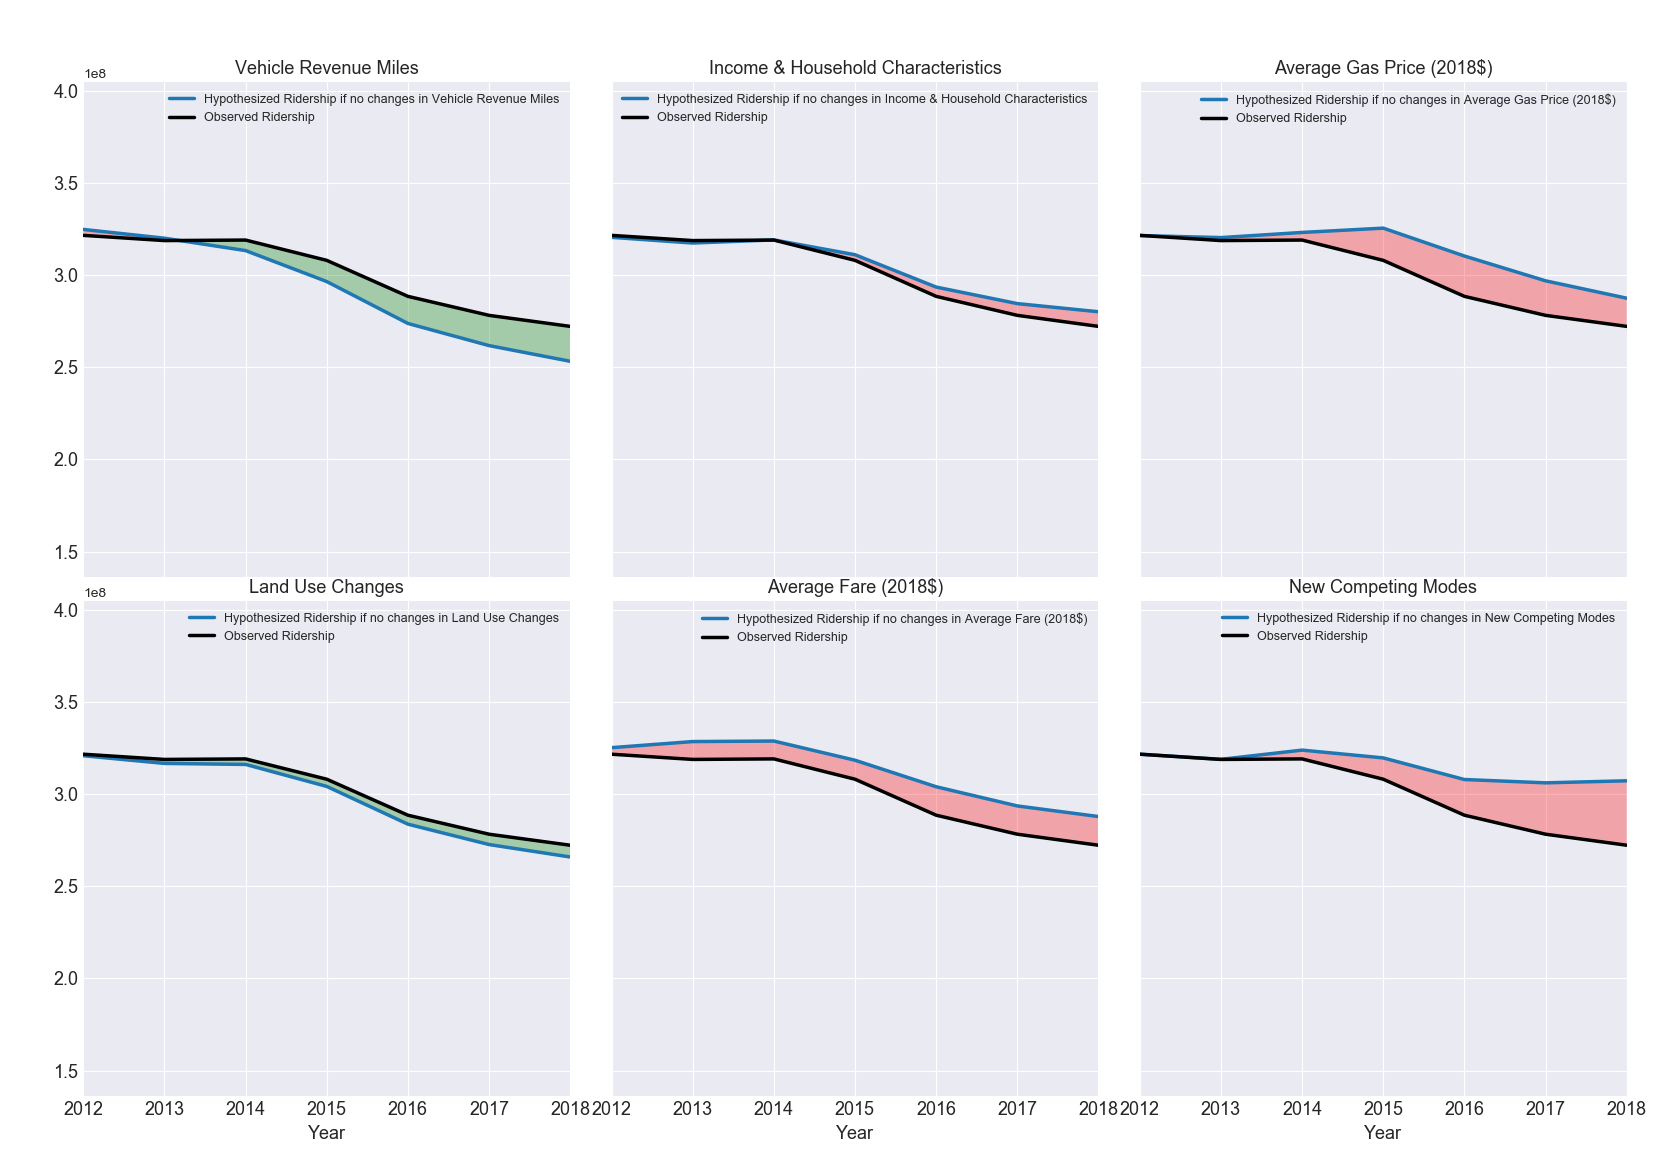
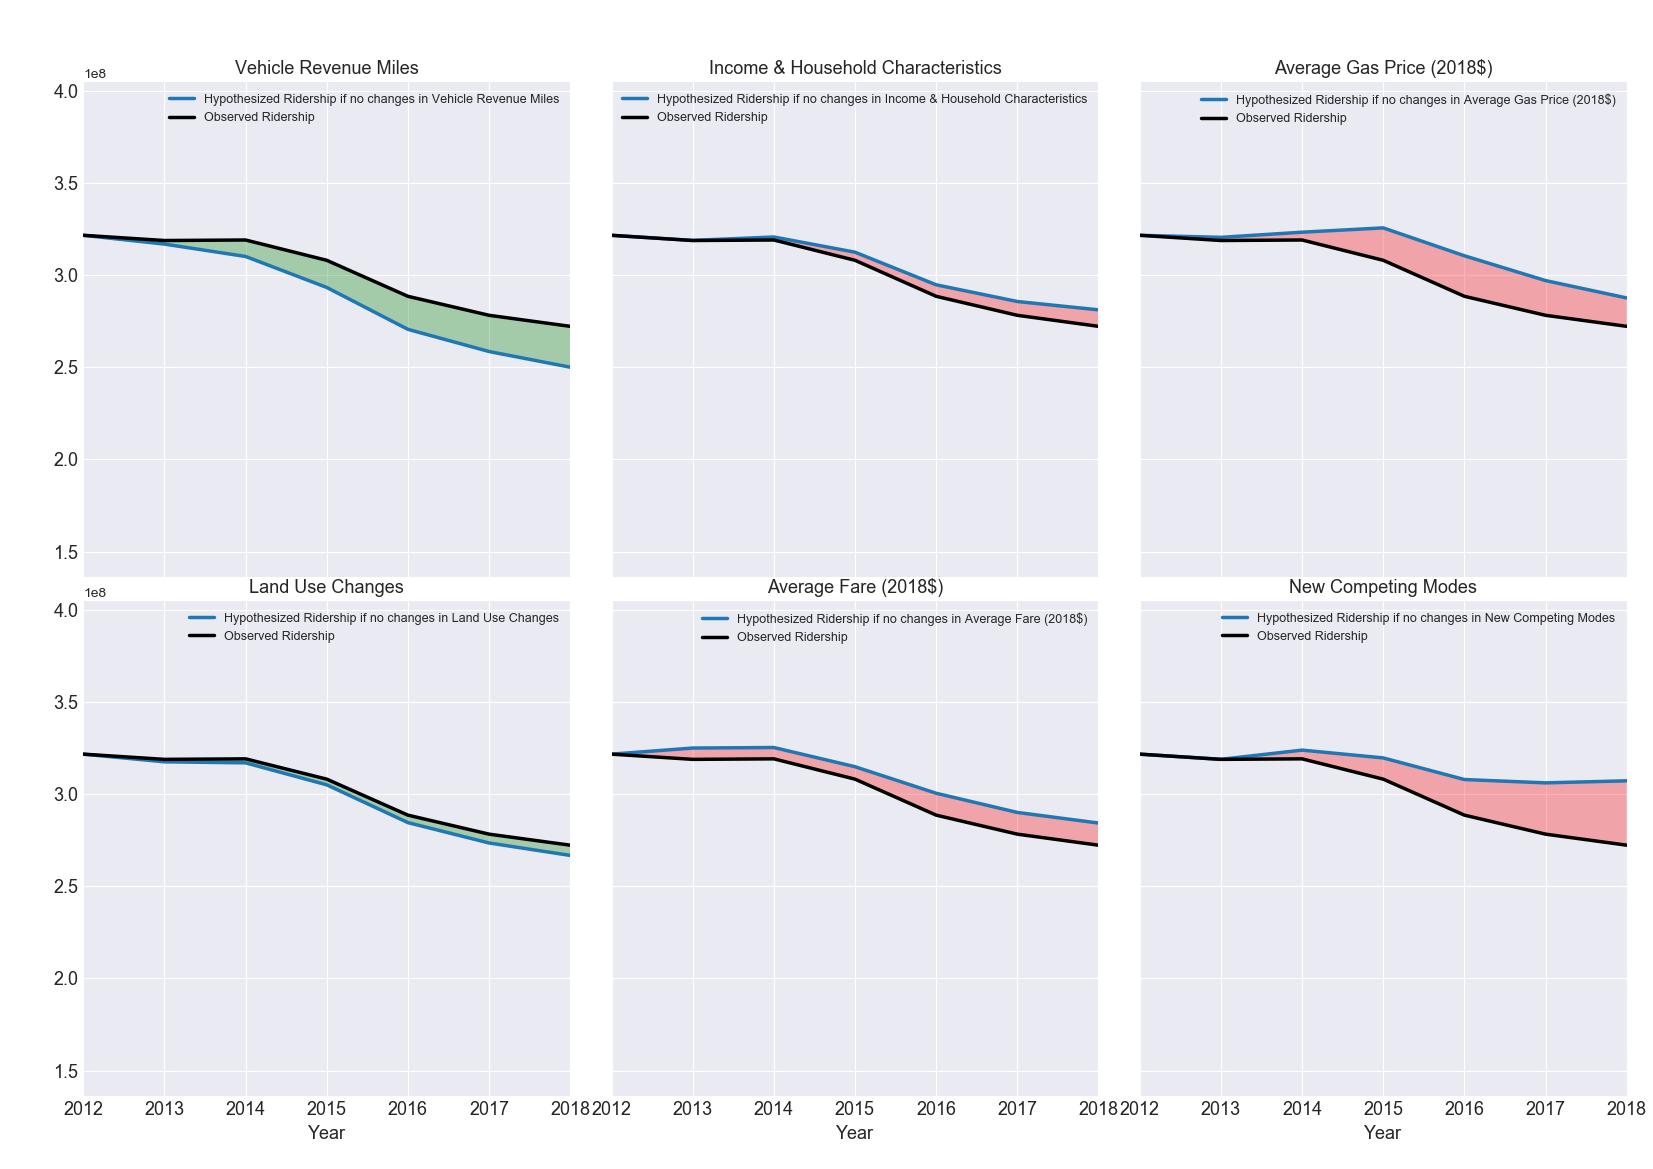
Base 2012 charts revised
revised the b2012 charts to reflect true readings. This is hardcoded as b2012 wasnt available to use it programmitically. the modified b2012 is found in the UPT_FAC_totals_APTA4_CLUSTERS_b2012 - Copy.csv file

diff --git a/Factors and Ridership Data/code/TCRP_Summary_Charts.py b/Factors and Ridership Data/code/TCRP_Summary_Charts.py
@@ -223,8 +223,8 @@ def main():
     # Lets create summary charts
     include a set of FAC charts corresponding to the all six categories as defined for APTA Clusters
     """
-    find_file("UPT_FAC_totals_APTA4_CLUSTERS_b2002.csv", "CLUSTER_APTA4", "b2002")
-    find_file("UPT_FAC_totals_APTA4_CLUSTERS_b2012.csv", "CLUSTER_APTA4", "b2012")
+    # find_file("UPT_FAC_totals_APTA4_CLUSTERS_b2002.csv", "CLUSTER_APTA4", "b2002")
+    find_file("UPT_FAC_totals_APTA4_CLUSTERS_b2012 - Copy.csv", "CLUSTER_APTA4", "b2012")
 
 
 if __name__ == "__main__":
